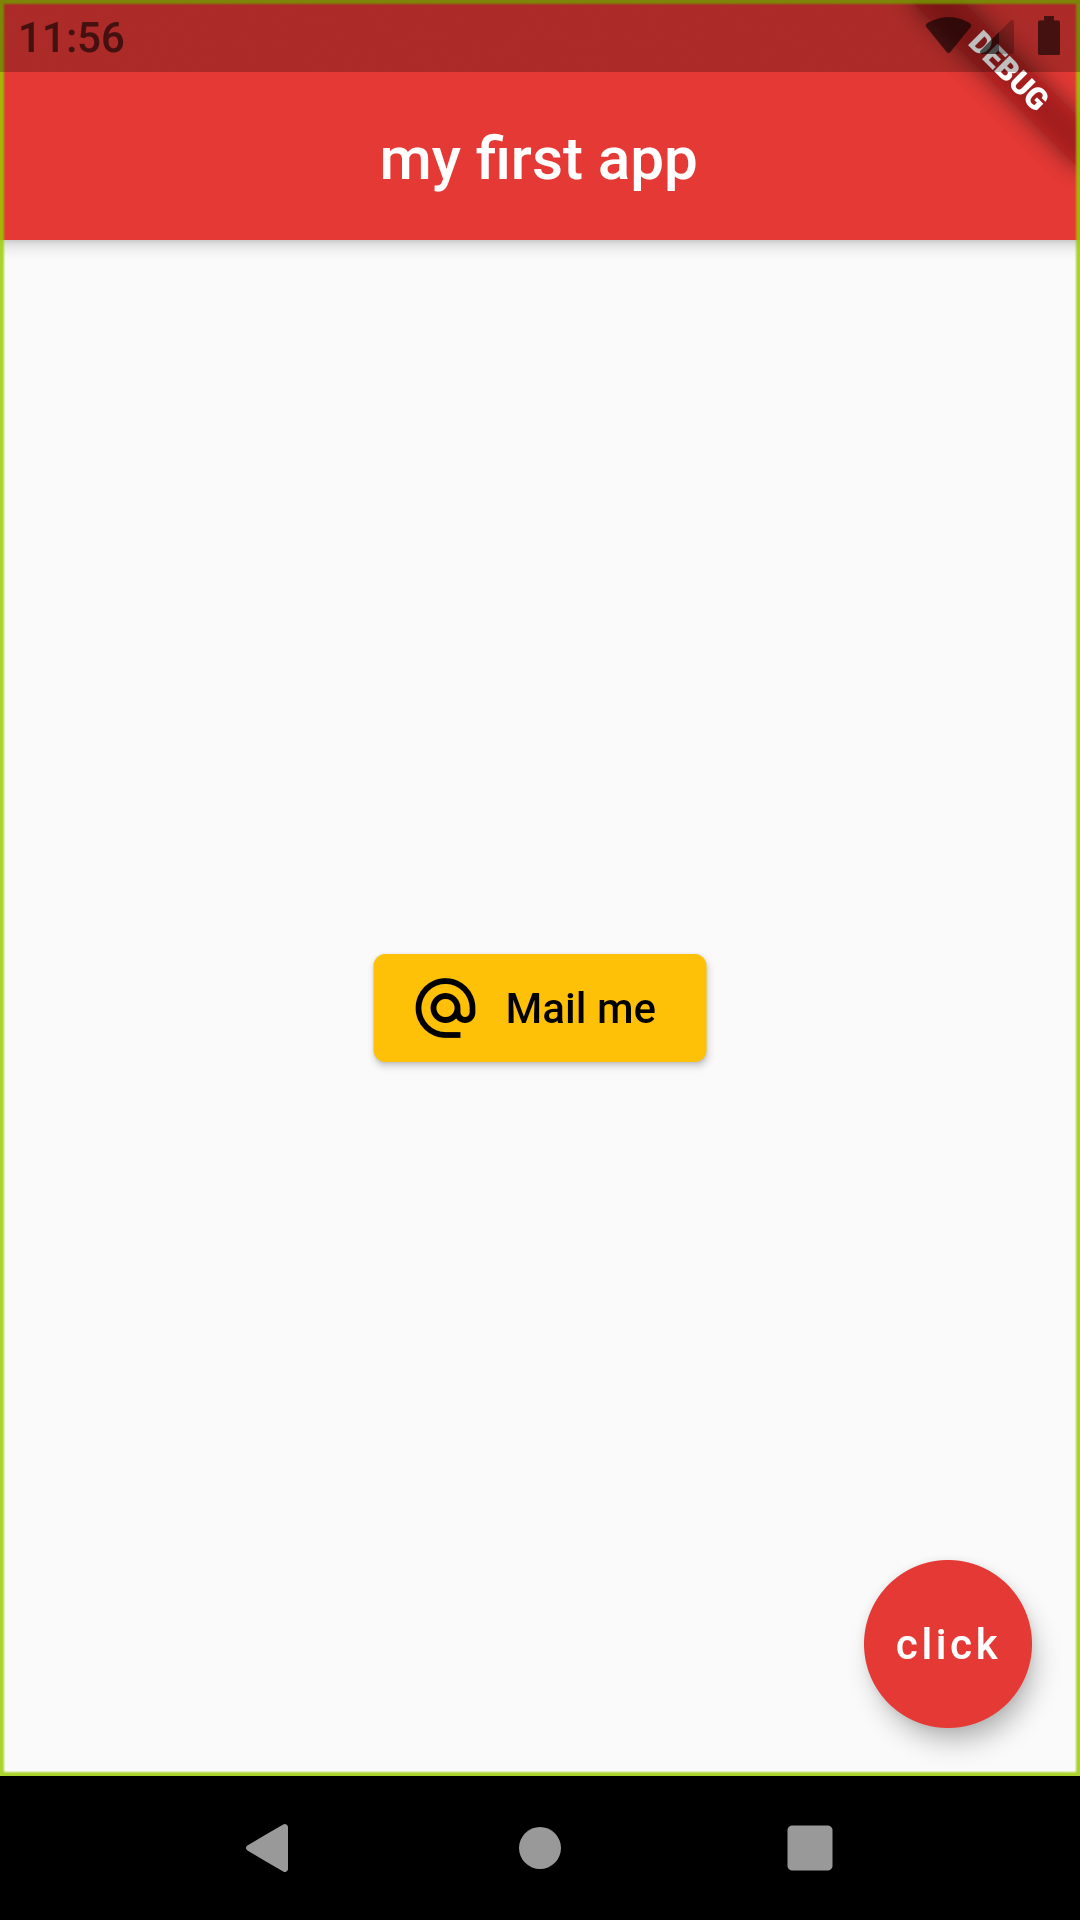
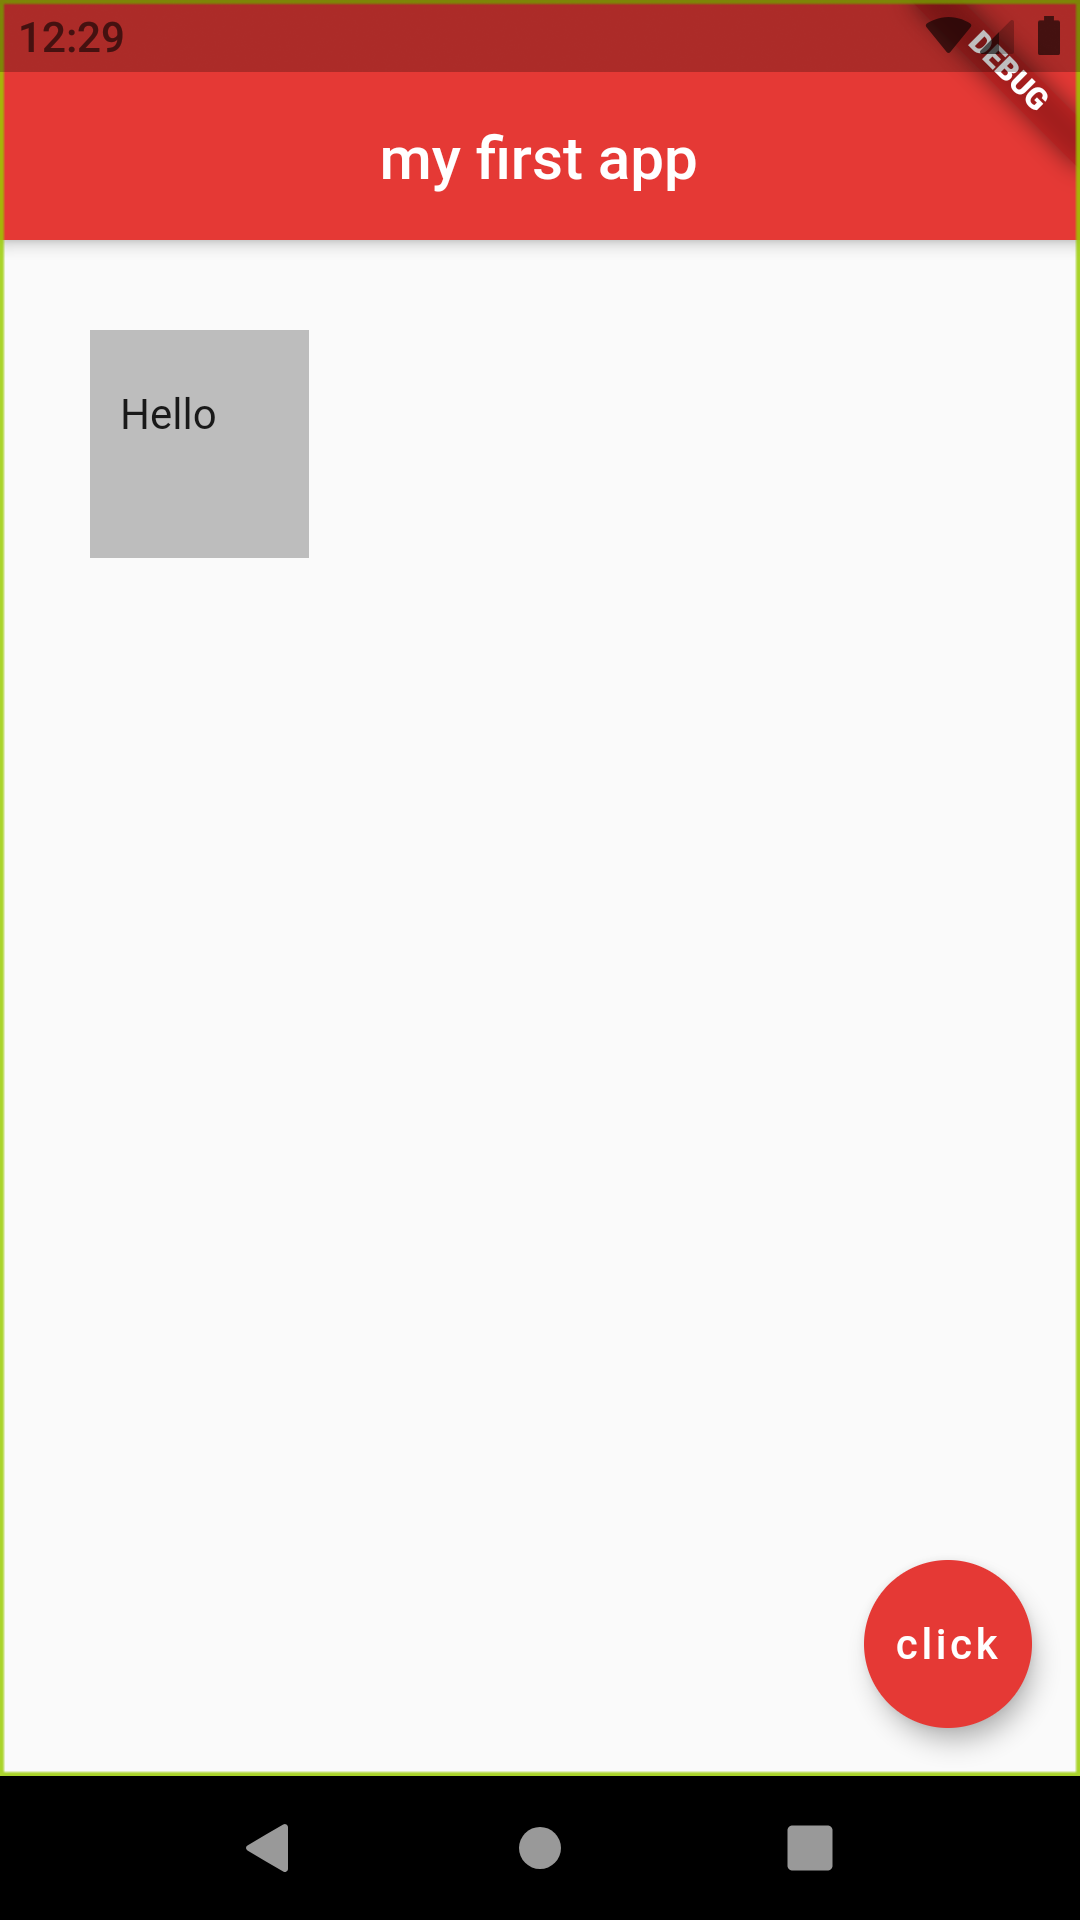
container, margin and padding

Changed region(s): [[0.0611, 0.1562, 0.3056, 0.3125], [0.3361, 0.5, 0.6722, 0.5625], [0.0306, 0.0, 0.1222, 0.0312]]

diff --git a/lib/main.dart b/lib/main.dart
@@ -11,16 +11,11 @@ class Home extends StatelessWidget {
         centerTitle: true,
         backgroundColor: Colors.red[600],
       ),
-      body: Center(
-        child: ElevatedButton.icon(
-          onPressed: () {},
-          icon: Icon(Icons.alternate_email),
-          label: Text('Mail me'),
-          style: ElevatedButton.styleFrom(
-            primary: Colors.amber, // background
-            onPrimary: Colors.black, // foreground
-          ),
-        ),
+      body: Container(
+        padding: EdgeInsets.fromLTRB(10.0, 20.0, 30.0, 40.0),
+        margin: EdgeInsets.all(30.0),
+        color: Colors.grey[400],
+        child: Text('Hello'),
       ),
       floatingActionButton: FloatingActionButton(
         onPressed: () {},
